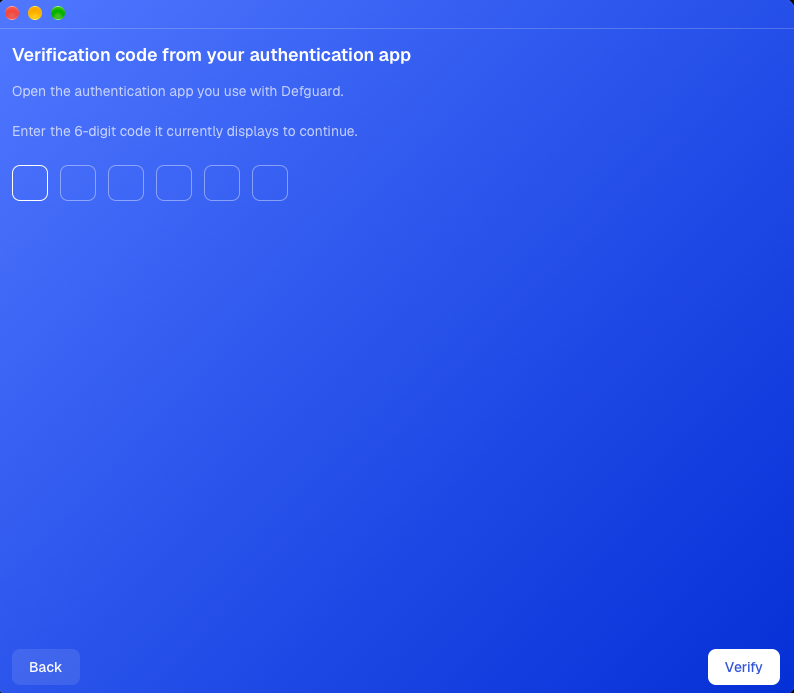
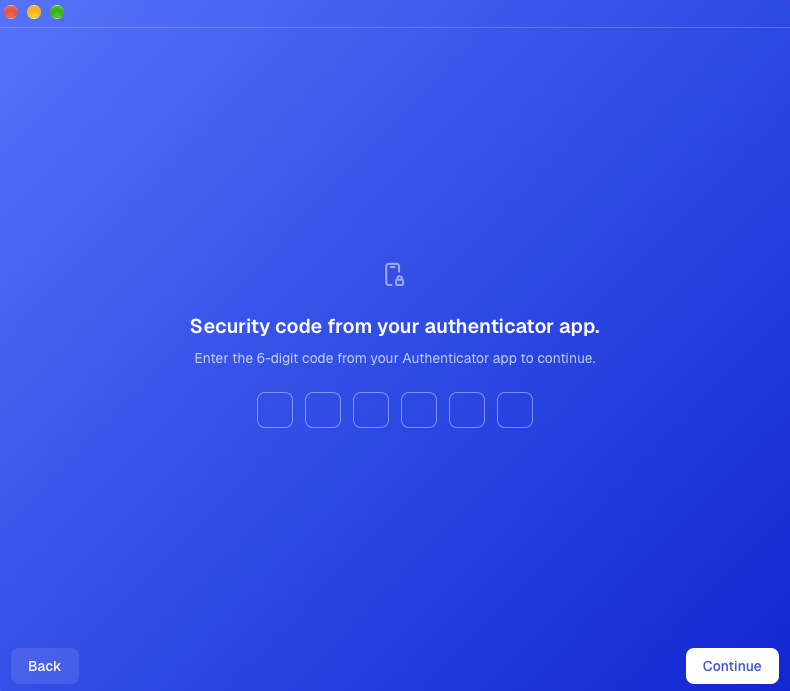
restore images

diff --git a/using-defguard-for-end-users/desktop-client/configuring-mfa-methods.md b/using-defguard-for-end-users/desktop-client/configuring-mfa-methods.md
@@ -83,16 +83,16 @@ Before adding a new method, Defguard asks you to confirm your identity with a me
 
 ### Authenticator app
 
-1. Enter the 6-digit code from your authenticator app and click **Verify**.
+1. Enter the 6-digit code from your authenticator app and click **Continue**.
 
 <figure><img src="../../.gitbook/assets/verify-authenticator-app.png" alt=""></figure>
 
 ### Email
 
-1. Enter the 6-digit code sent to your email and click **Verify**.
+1. Enter the 6-digit code sent to your email and click **Continue**.
 
 {% hint style="info" %}
-If you didn't receive the code, click **Resend code**.
+If you didn't receive the code, click **Resend email**.
 {% endhint %}
 
 <figure><img src="../../.gitbook/assets/verify-email.png" alt=""></figure>
